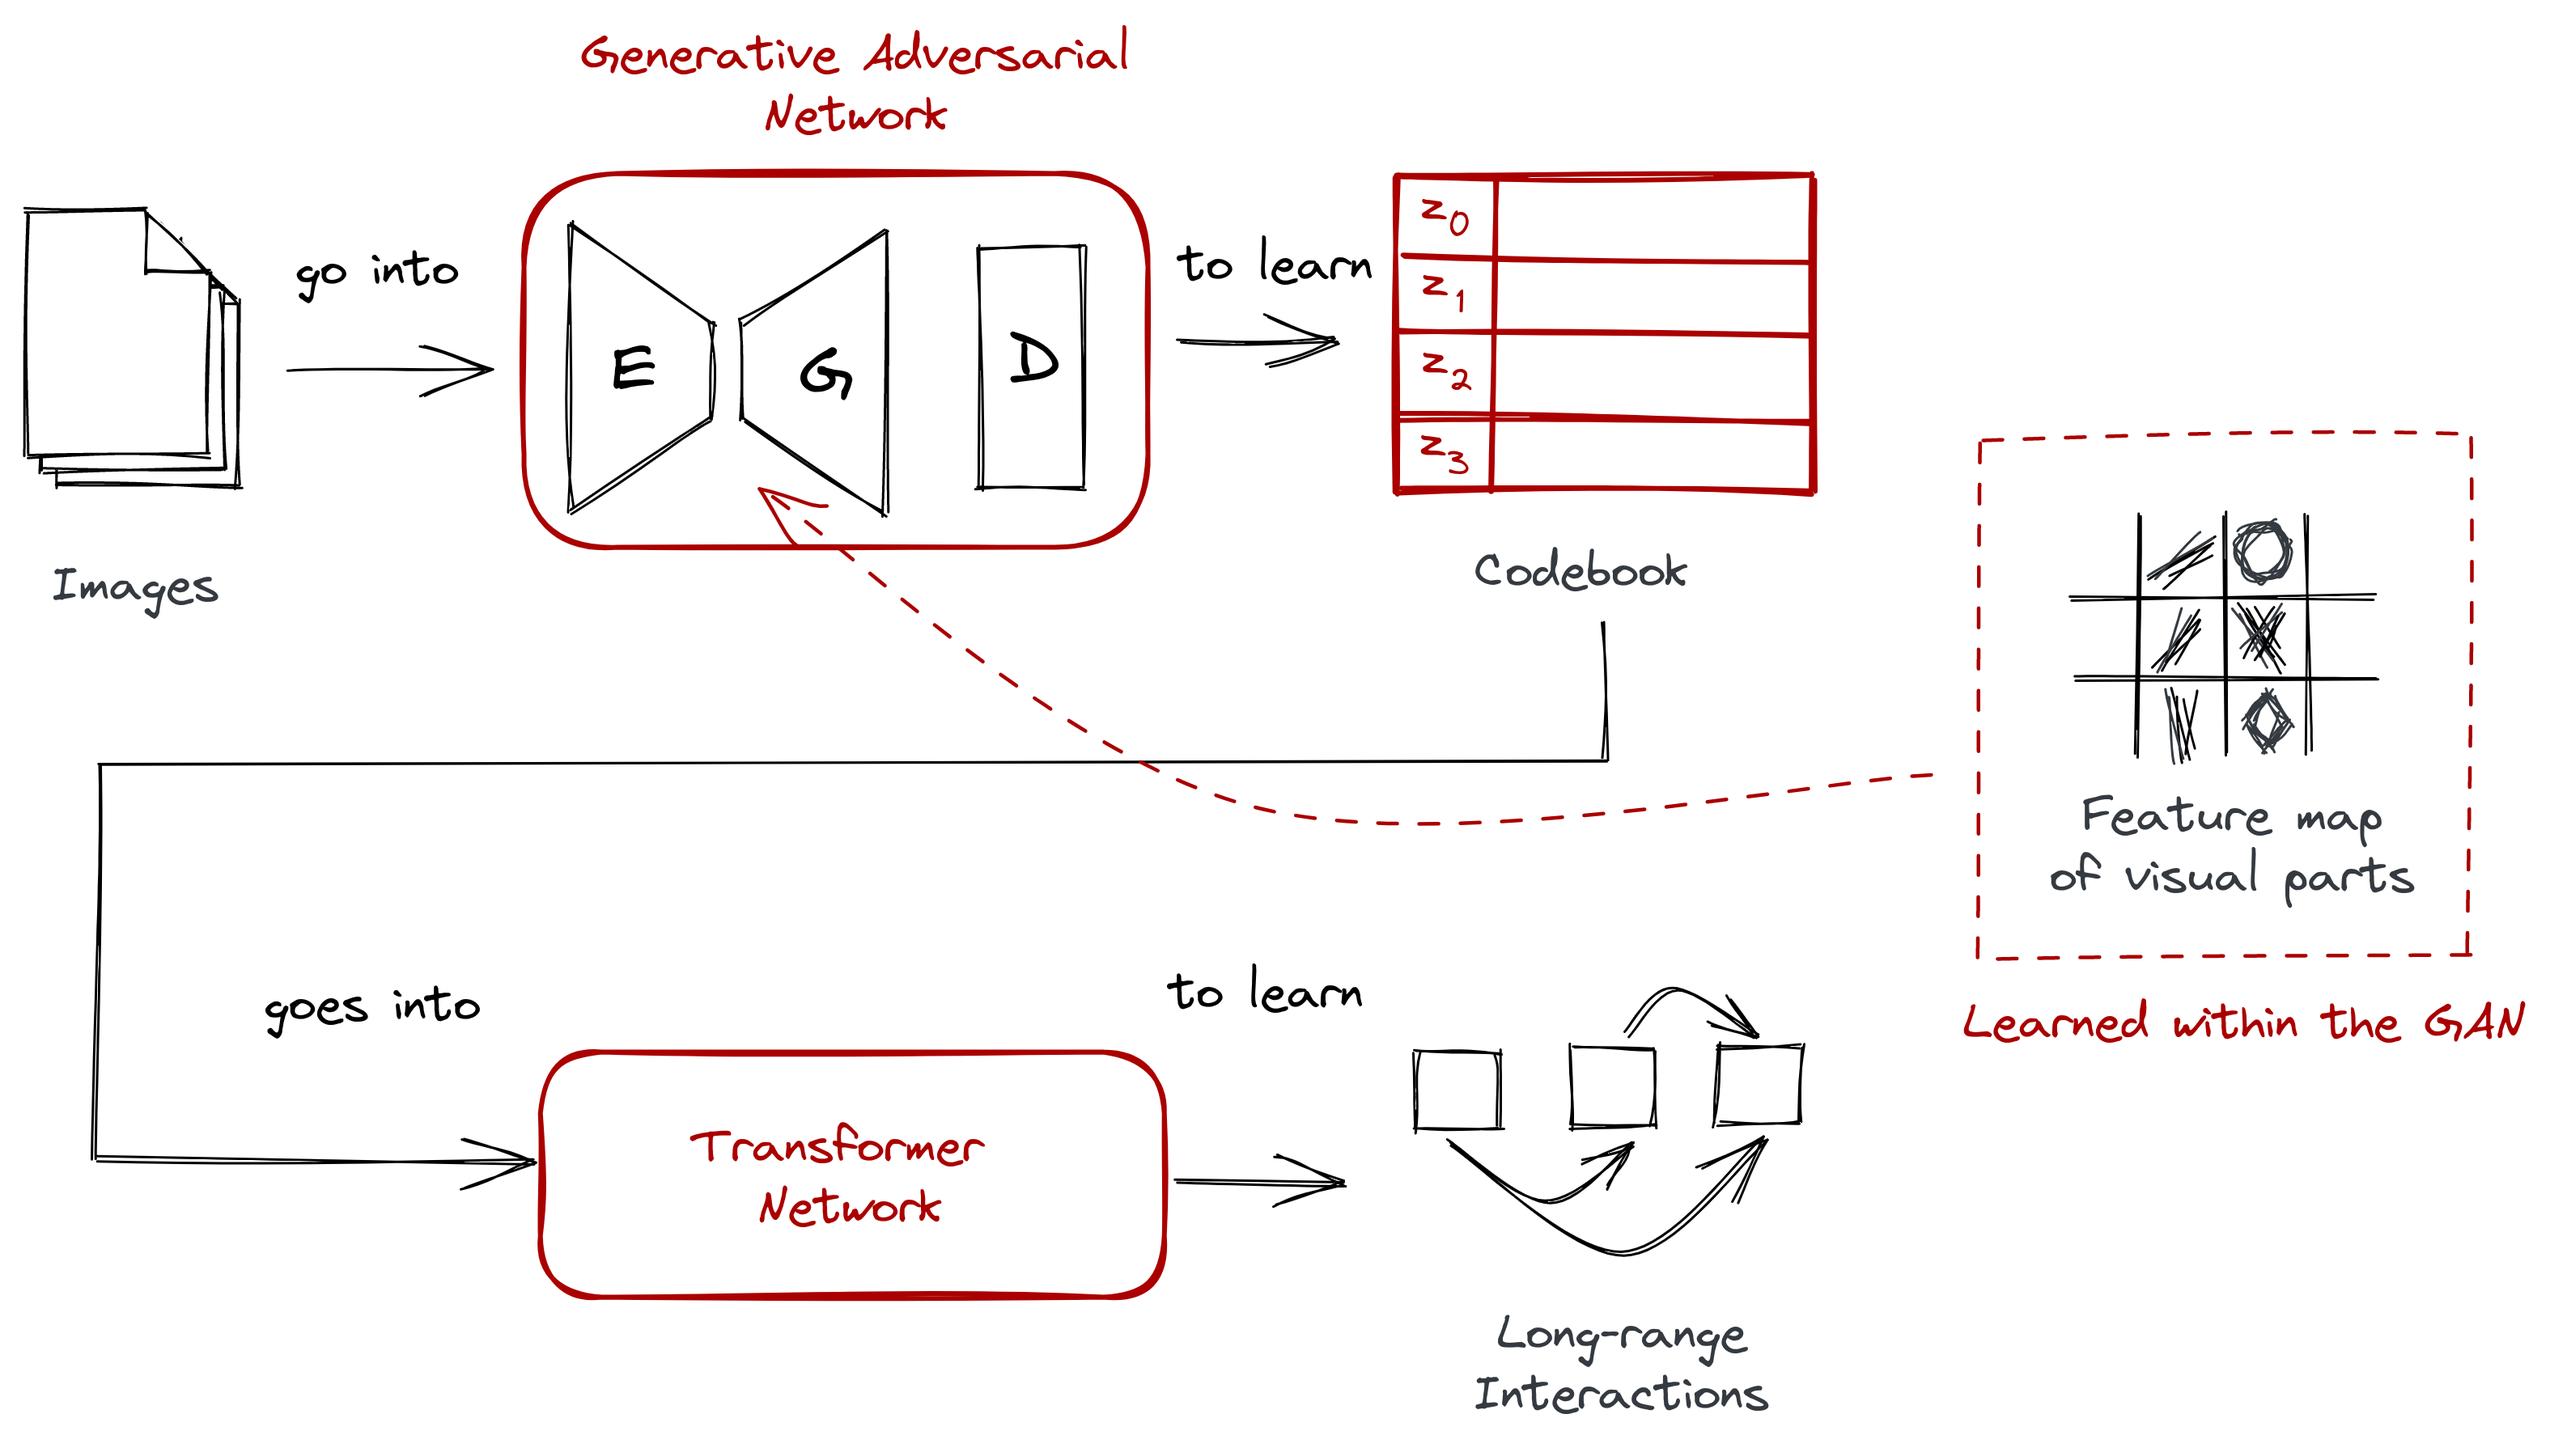
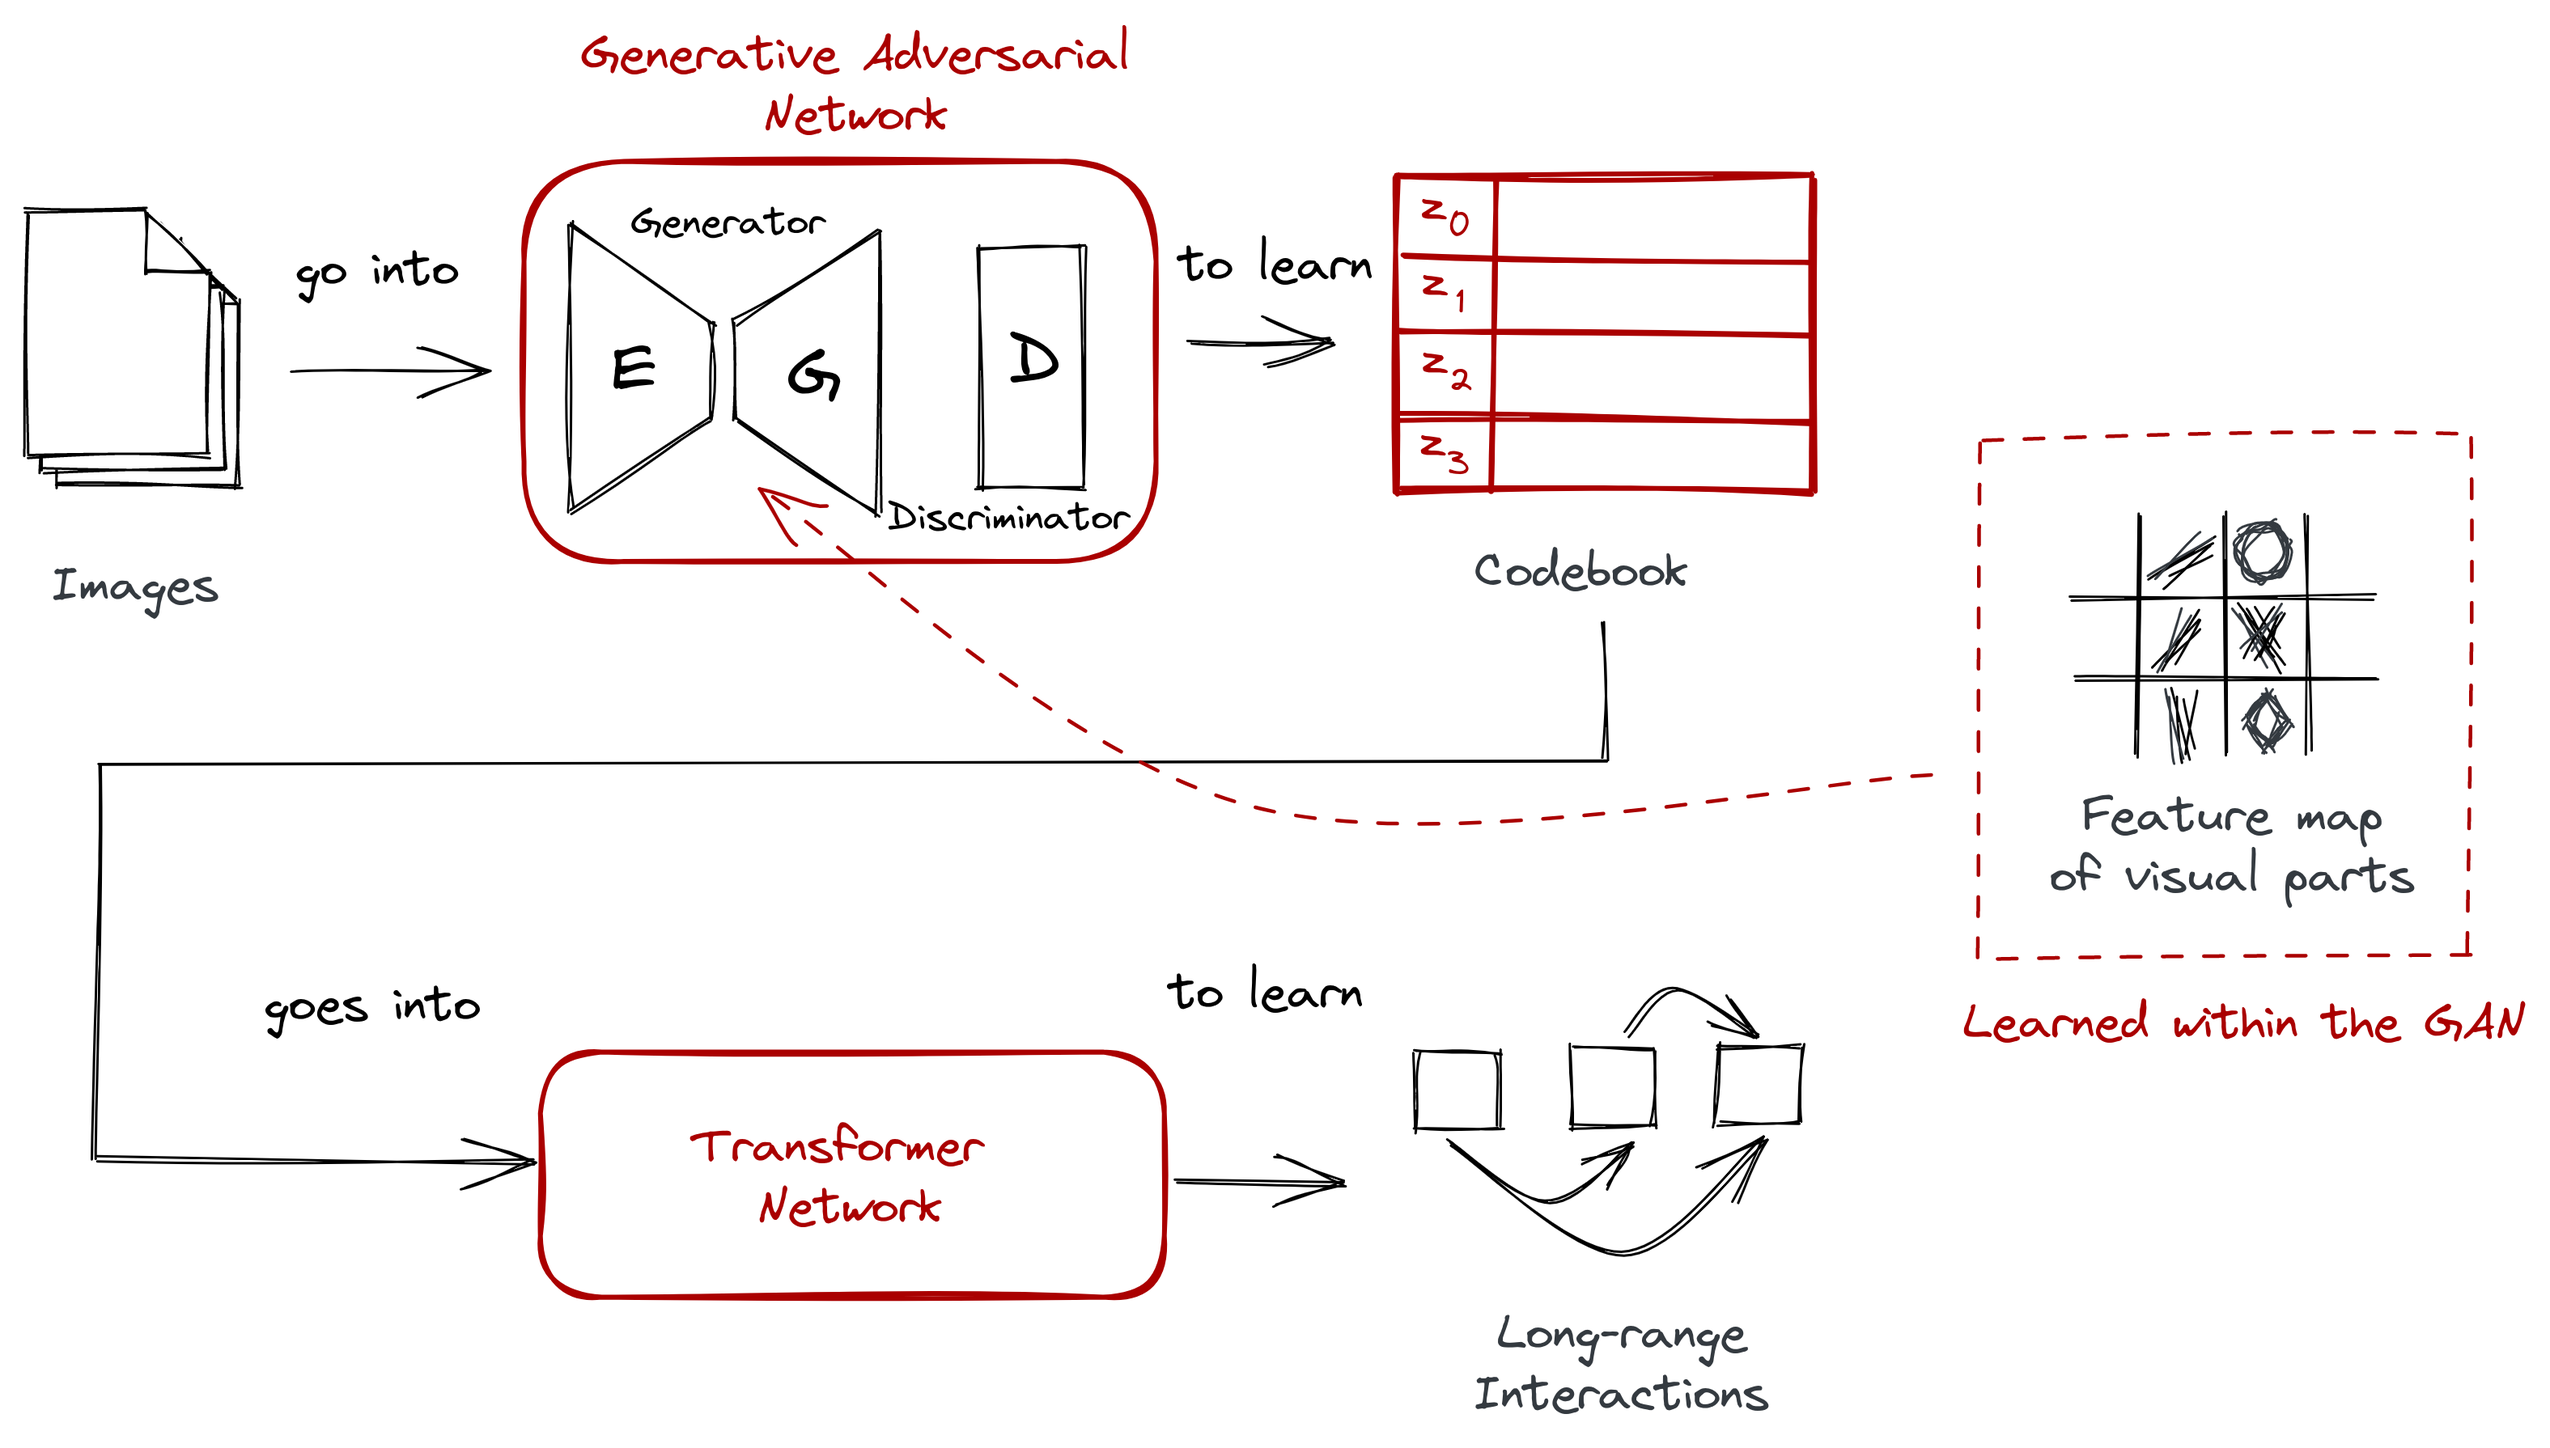
[wip] Update

diff --git a/notebook/_posts/2021-09-01-clip-vqgan.md b/notebook/_posts/2021-09-01-clip-vqgan.md
@@ -359,7 +359,102 @@ Due to its two-stage nature, training also happens in two major steps:
 
 ### <a id="training-gan"></a> Training the GAN
 
-<!-- why use a GAN -->
+Earlier, we replaced the convolutional neural network with a generative
+adversarial network or a GAN ([Goodfellow et al, 2014](#goodfellow2020gans)).
+Think of a GAN as an architecture composed of two competing neural networks: 
+
+1. a generator $$N$$ for creating new samples, and 
+2. a discriminator $$D$$ that classifies the samples as either real or fake. 
+
+The interaction between the two motivates the generator to fool the
+discriminator, enabling it to synthesize highly-convincing *fake* samples. 
+
+
+![](/assets/png/vqgan/gan_inside.png){:width="580px"}  
+{: style="text-align: center; margin: 1.5em"}
+
+So if we have a real input $$x$$ and a generated sample $$\hat{x}$$, we
+evaluate our discriminator in differentiating between real and reconstructed
+images using the loss $$\mathcal{L}_{GAN}$$:
+
+$$
+\mathcal{L}_{GAN}(N,D) = [\log D(x) + log(1-D(\hat{x}))]
+$$
+
+In classic GAN literature, this is known as the [minimax
+loss](https://developers.google.com/machine-learning/gan/loss):
+* The first term, $$\log D(x)$$, measures the probability of the discriminator
+    $$D$$ to say that a real data instance $$x$$ is actually real.
+* The second term, $$\log(1-D(\hat{x}))$$, measures the  probability of the
+    discriminator $$D$$ to say that a generated instance $$\hat{x}$$ is real.
+
+If we look under the hood of VQGAN's generator $$N$$, we'll see that it follows an
+encoder-decoder architecture. This setup is reminiscent of autoencoders, where
+the goal is to have a decoder $$G$$ properly reconstruct the input
+$$x$$. The theory is that if we have perfect reconstruction, then that means
+the encoder $$E$$  has found a suitable representation of the data. 
+
+
+![](/assets/png/vqgan/autoencoders.png){:width="720px"}  
+{: style="text-align: center; margin: 1.5em"}
+
+Vector quantization also happens between the encoder and decoder networks. After
+encoding the input $$x$$ into $$\hat{z}$$, i.e., $$\hat{z} = E(x)$$, we perform
+an element-wise operation $$\mathbf{q}$$ to obtain a discrete version of the
+input:
+
+$$
+z_{q} = \mathbf{q}(\hat{z}) := \text{arg min}_{z_k \in \mathcal{Z}} ||
+\hat{z}_{ij} - z_k ||
+$$
+
+So instead of reconstructing from the encoder output $$\hat{z}$$, we do it from
+its quantized form $$z_q$$. Thus, the reconstructed image $$\hat{x} \approx x$$
+looks like this:
+
+$$
+\hat{x} = G(z_\mathbf{q}) = G(\mathbf{q}(E(x)))
+$$
+
+The autoencoder model and the codebook were trained together using the
+loss function $$\mathcal{L}_{VQ}$$:
+
+$$
+\mathcal{L}_{VQ}(E, G, Z) = ||x-\hat{x}||^{2} + ||sg[E(x)] - z_\mathbf{q}||_2^2
++ ||sg[z_\mathbf{q}] - E(x) ||_{2}^2
+$$
+
+It's a bit hard to parse, so let's take them one-by-one:
+* The first term, $$||x-\hat{x}||^{2}$$, is the *reconstruction loss*, it checks
+    how well our network was able to approximate (via $$\hat{x}$$) our input
+    $$x$$  when given only its quantized version $$z_\mathbf{q}$$.  
+* The second term, $$||sg[E(x)] - z_\mathbf{q}||_2^2$$, optimizes our
+    embeddings. The operation $$sg$$ stands for
+    "[stop-gradient](https://www.tensorflow.org/api_docs/python/tf/stop_gradient)."
+    It is an identity function during forward pass, and has zero partial
+    derivatives, thus constraining it to be constant.
+* The last term,$$||sg[z_\mathbf{q}] - E(x) ||_{2}^2$$,  is called the
+    *commitment loss*. It ensures that the encoder $$E$$ commits to a
+    particular representation of the image. 
+
+Finally, training VQGAN to obtain the optimal compression model $$Q^{\star}$$ becomes a
+matter of combining the two losses from the autoencoder, $$\mathcal{L}_{VQ}$$,
+and the GAN, $$\mathcal{L}_{GAN}$$:
+
+$$
+Q^{\star} = \text{arg min}_{E,G,Z} \text{max}_D \mathbb{E}_{x~p(x)} [\mathcal{L}_{VQ}(E, G, Z) + \lambda \mathcal{L}_{GAN}(N, D)]
+$$
+
+where $$Z$$ is the codebook and $$\lambda$$ is the adaptive weight.
+
+When put together, we obtain the discrete capabilities of VQ, the rich
+expressivity of GANs, and the encoding capabilities of the autoencoder.  This
+allows us to obtain richer and more distinct visual parts than a standard
+convolutional neural network.
+
+
+
+
 <!-- how it learns a codebook -->
 
 ### <a id="training-transformer"></a> Training the transformer
@@ -378,6 +473,7 @@ Due to its two-stage nature, training also happens in two major steps:
 1. <a id="child2019sparse">Child, R., Gray, S., Radford, A. and Sutskever, I.</a>, 2019. Generating long sequences with sparse transformers. arXiv preprint arXiv:1904.10509.
 1. <a id="dosovitskiy2020vit">Dosovitskiy, A., Beyer, L., Kolesnikov, A., Weissenborn, D., Zhai, X., Unterthiner, T., Dehghani, M., Minderer, M., Heigold, G., Gelly, S. and Uszkoreit, J.</a>, 2020. An image is worth 16x16 words: Transformers for image recognition at scale. arXiv preprint arXiv:2010.11929.
 1. <a id="esser2021vqgan">Esser, P., Rombach, R. and Ommer, B.</a>, 2021. Taming transformers for high-resolution image synthesis. In *Proceedings of the IEEE/CVF Conference on Computer Vision and Pattern Recognition* (pp. 12873-12883).
+1. <a id="goodfellow2020gans">Goodfellow, I., Pouget-Abadie, J., Mirza, M., Xu, B., Warde-Farley, D., Ozair, S., Courville, A. and Bengio, Y., 2020</a>. Generative adversarial networks. Communications of the ACM, 63(11), pp.139-144.
 1. <a id="gu2018cnn">Gu, J., Wang, Z., Kuen, J., Ma, L., Shahroudy, A., Shuai, B., Liu, T., Wang, X., Wang, G., Cai, J. and Chen, T.</a>, 2018. Recent advances in convolutional neural networks. Pattern Recognition, 77, pp.354-377.
 1. <a id="mnih2014neural">Mnih, A. and Gregor, K.</a>, 2014, June. Neural variational inference and learning in belief networks. In International Conference on Machine Learning (pp. 1791-1799). PMLR.
 1. <a id="oord2017discrete">Oord, A.V.D., Vinyals, O. and Kavukcuoglu, K.</a>, 2017. Neural discrete representation learning. arXiv preprint arXiv:1711.00937.
